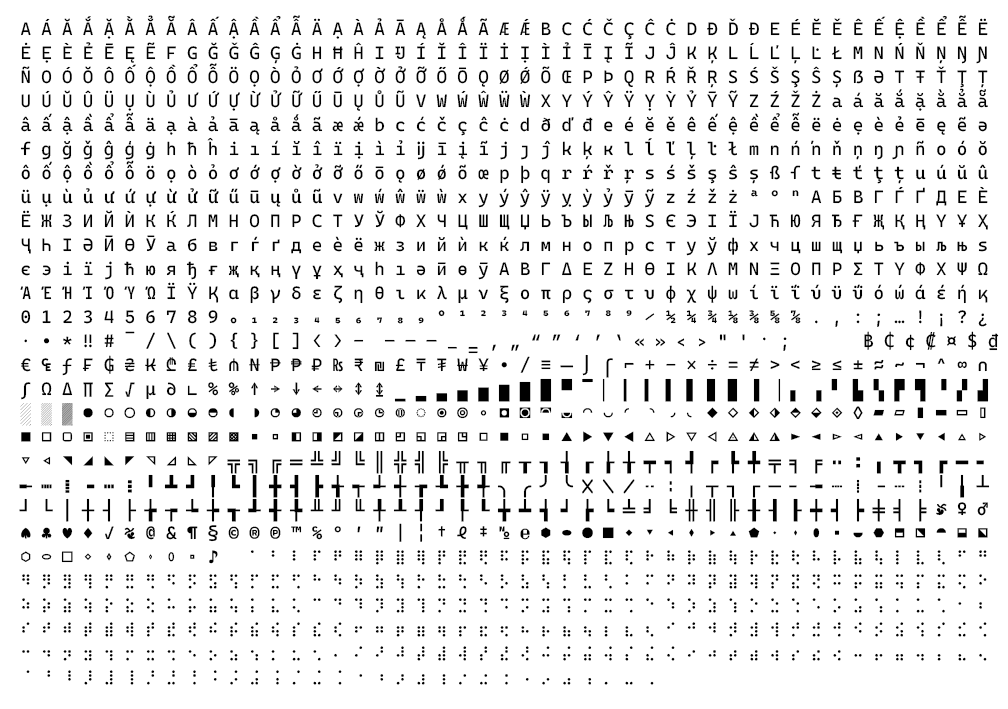
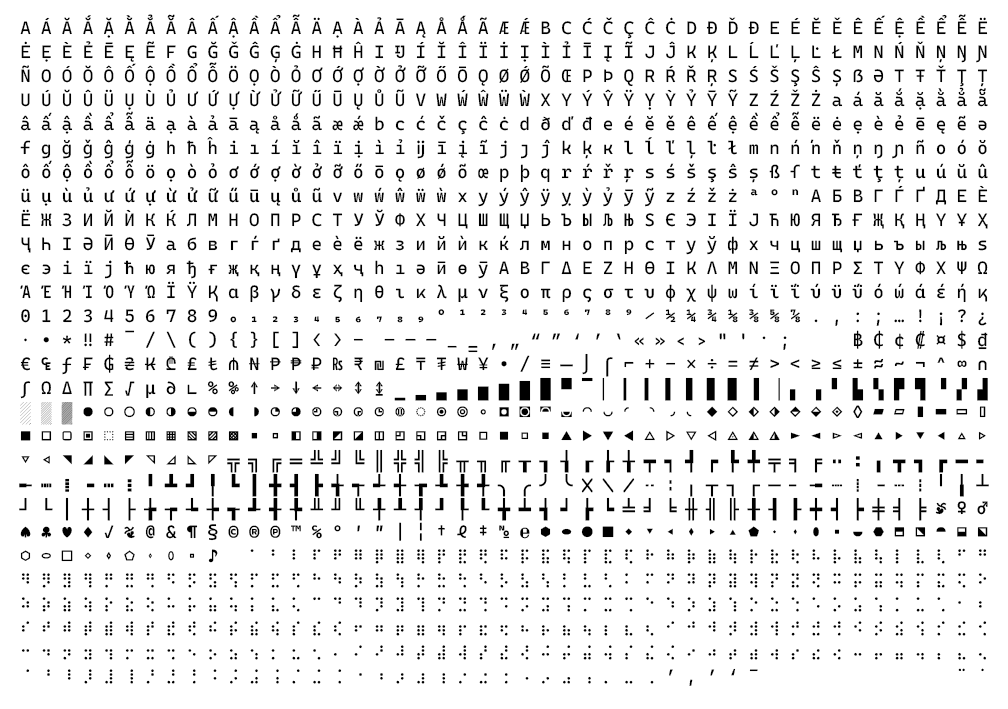
Fixing build script & updating main image (#187)
* Update cascadia-code-characters.png

Making prettier

* Update build.py

diff --git a/build.py b/build.py
@@ -44,7 +44,7 @@ if __name__ == "__main__":
 
         # 4.1 Modifying some attributes to correct the metadata
         setattr(instance.info,"openTypeOS2Panose",[2,11,6,9,2,0,0,2,0,4])
-        setattr(instanceNF.info,"openTypeOS2Panose",[2,11,6,9,2,0,0,2,0,4])
+        #setattr(instanceNF.info,"openTypeOS2Panose",[2,11,6,9,2,0,0,2,0,4])
         setattr(instancePL.info,"openTypeOS2Panose",[2,11,6,9,2,0,0,2,0,4])
 
         #instanceNF.info.familyName = "Cascadia Code NF"
